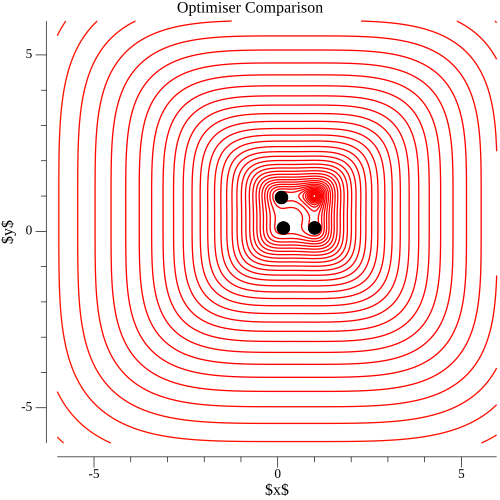
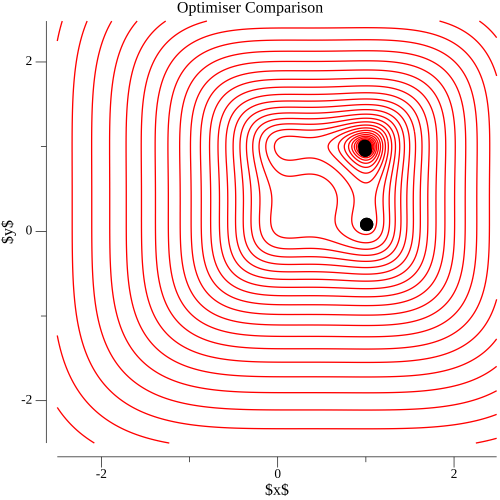
Better starting place for optimisers

diff --git a/ml_in_go/optimisers/optimisers.go b/ml_in_go/optimisers/optimisers.go
@@ -226,9 +226,9 @@ func main() {
     // partial x: 40 x^3 - 60 x^2 + 22 x - 2
     // partial y: 40 y^3 - 60 y^2 + 22 y - 2
     // minimum is at (1,1)
-    At1 := []float64{4,-4}
-    At2 := []float64{4,-4}
-    At3 := []float64{4,-4}
+    At1 := []float64{2,-2}
+    At2 := []float64{2,-2}
+    At3 := []float64{2,-2}
     F := func (x []float64) float64 {
         return 10 * math.Pow(x[0]-x[0]*x[0], 2) + math.Pow(1-x[0], 2) + 10 * math.Pow(x[1]-x[1]*x[1], 2) + math.Pow(1-x[1], 2)
     }
@@ -252,7 +252,7 @@ func main() {
             Ats[0] = At1
             Ats[1] = At2
             Ats[2] = At3
-            p := DescentPlot(F, Ats, -6, 6, -6, 6)
+            p := DescentPlot(F, Ats, -2.5, 2.5, -2.5, 2.5)
             gm.CollectFrames(p)
         }
 

diff --git a/README.MD b/README.MD
@@ -1,6 +1,6 @@
 # Mini-projects in Machine Learning
 
-The purpose of this project is to deepen my Machine Learning knowledge, and while implementing various ML algorithm I learn coding in Go. It is more fun than just calling a `scikit-learn` function in Python.
+The purpose of this project is to deepen my Machine Learning knowledge, and while implementing various ML algorithms, I learn coding in `Go`. It is more fun than just calling a `scikit-learn` function in Python.
 
 ## Contents
 
@@ -74,7 +74,7 @@ Again we can visualise the distribution where we believe the function runs.
 
 ## Principal Component Analysis
 
-PCA is an unsupervised learning algorithm. As such, we would like to infer X and f from the equation Y=f(x). We could just say f is the identity, while Y=X. Rather, we reduce the dimensionality in order to arrive at a meaningful representation. We assume that the mapping is linear. As a presentation on how PCA works we embedded a spiral in a 10 dimensional space and applied PCA to to reduce the dimensions down to 2. This resulted in the following density plot.
+PCA is an unsupervised learning algorithm. As such, we would like to infer X and f from the equation Y=f(x). We could just say f is the identity, while Y=X. Rather, we reduce the dimensionality in order to arrive at a meaningful representation. We assume that the mapping is linear. As a presentation on how PCA works we embedded a spiral in a 10 dimensional space and applied PCA to reduce the dimensions down to 2. This resulted in the following density plot.
 
 <table>
 <tr>
